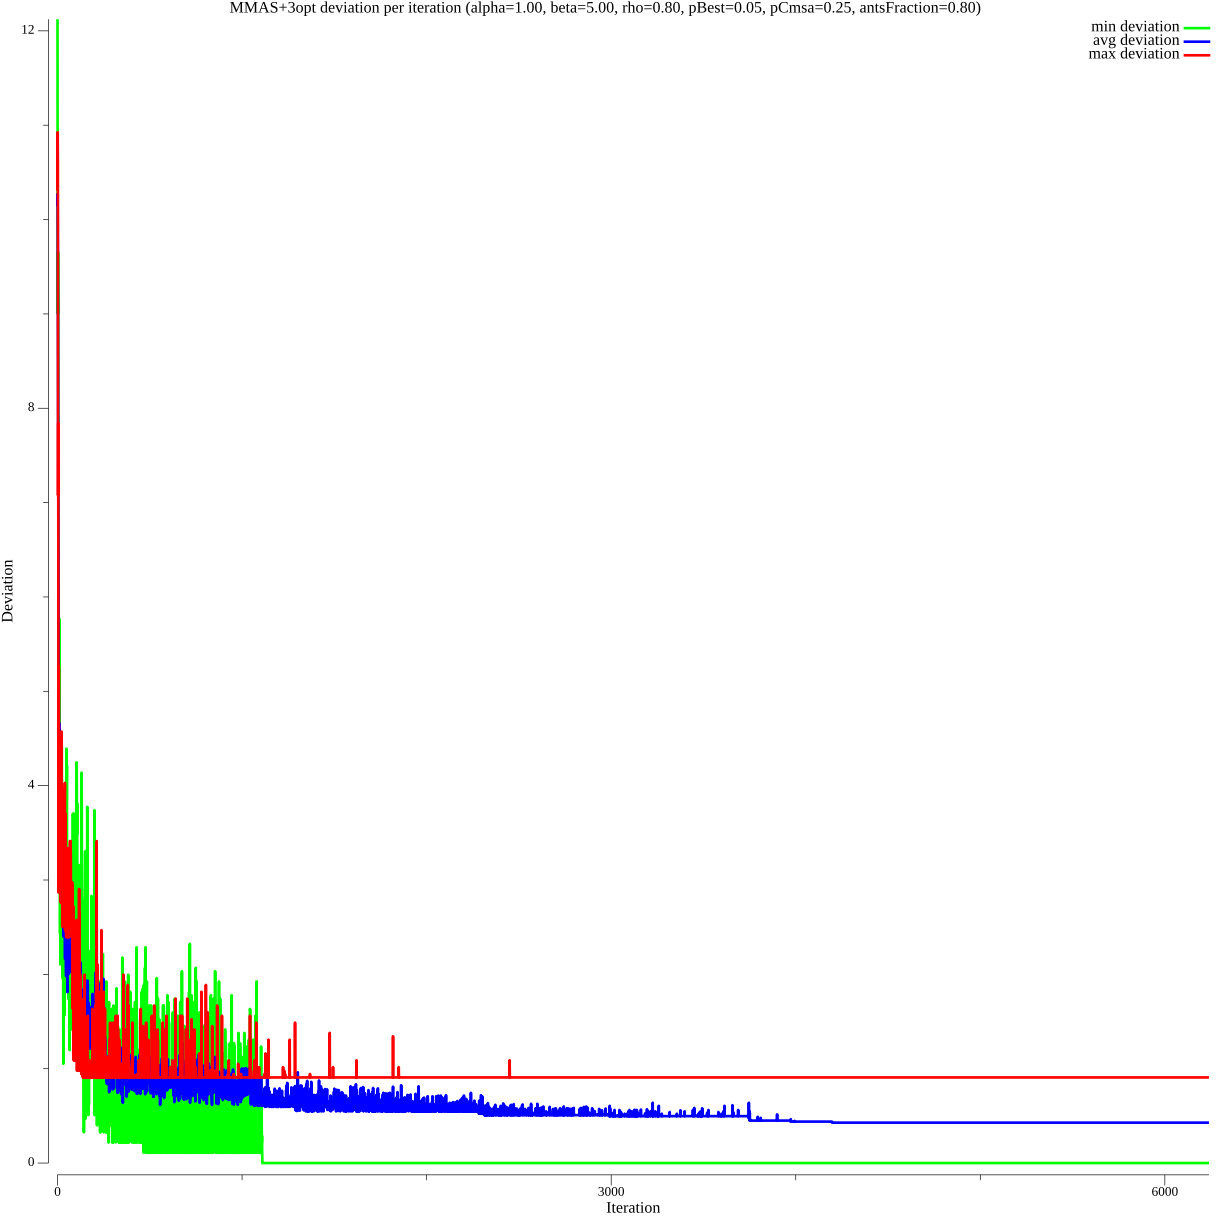
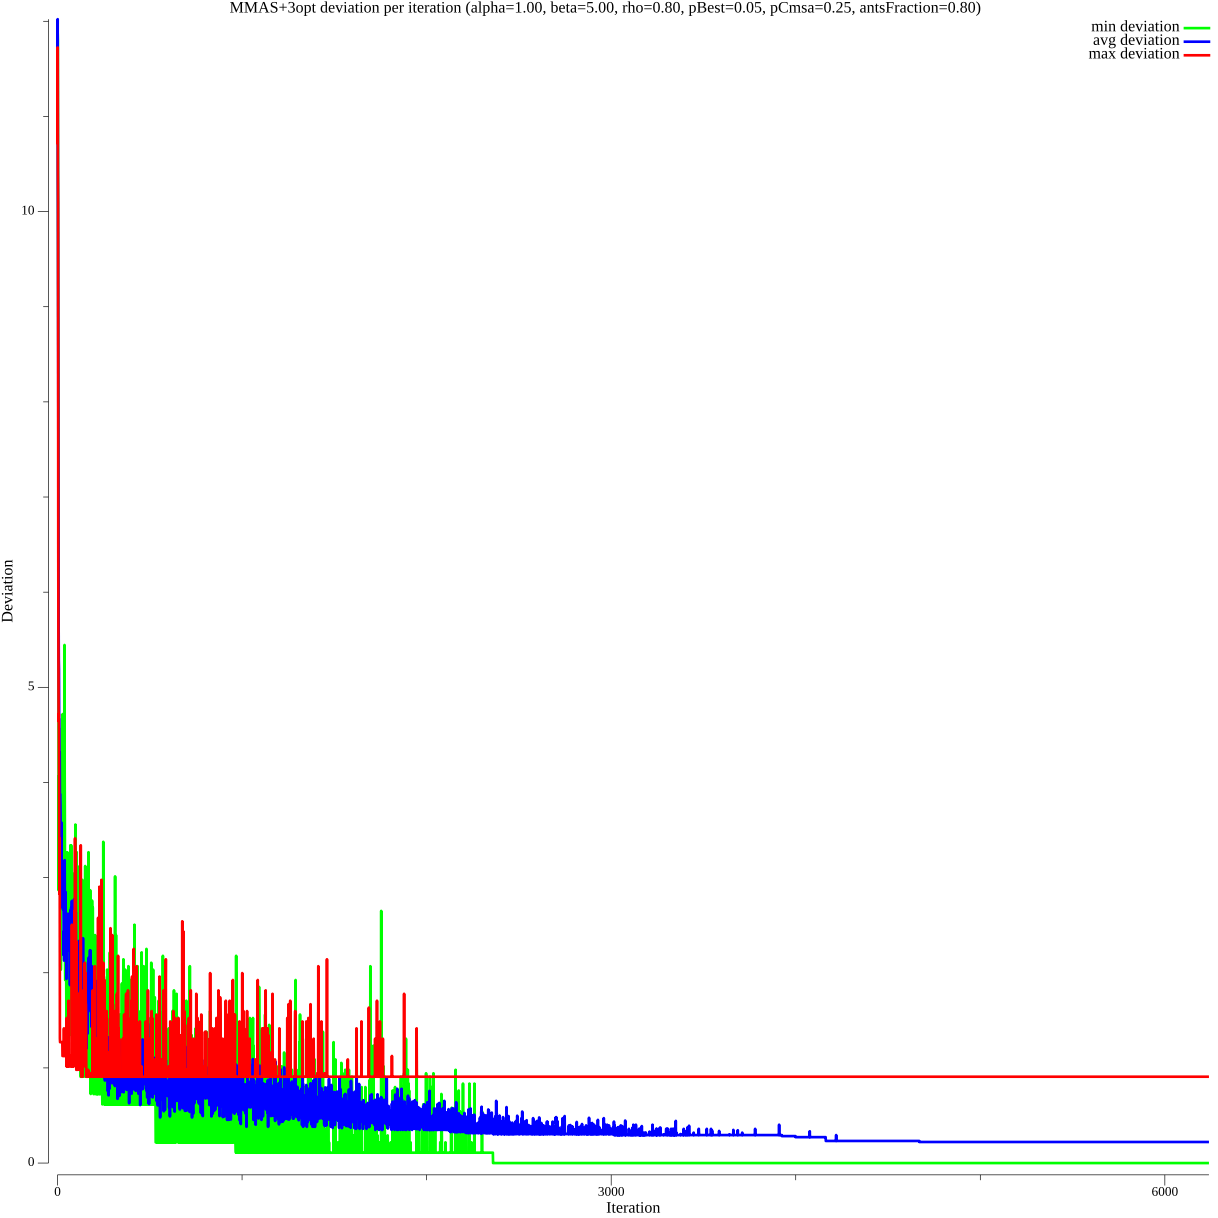
perf improvements and notes from consult, prep for more parameters etc.

Changed region(s): [[0.0312, 0.5304, 0.7488, 0.9672], [0.7488, 0.936, 0.9672, 0.9672], [0.0312, 0.0312, 0.0624, 0.0936]]

diff --git a/modules/algorithms/aco/aco.go b/modules/algorithms/aco/aco.go
@@ -89,6 +89,7 @@ func NewACO(useLocalSearch bool, alpha, beta, rho, pBest, pCmsa float64, ants, i
 		probabilities:             probabilities,
 		cmsaProbabilities:         cmsaProbabilities,
 		BestLength:                math.MaxFloat64,
+		BestTour:                  make([]int, dimension),
 		reducedThreeOpt:           reducedThreeOpt,
 		targetTourLength:          targetTourLength,
 		DeviationPerIteration:     make([]float64, iterations),
@@ -110,16 +111,18 @@ func (aco *ACO) Run() {
 		probabilities[i] = make([]float64, aco.dimension)
 	}
 
+	maxLocalSearchAntId := int(math.Floor(float64(aco.ants) * 0.5))
+
 	for aco.currentIteration = 0; aco.currentIteration < aco.iterations; aco.currentIteration++ {
 
 		iterationBestLength := math.MaxFloat64
-		iterationBestTour := []int{}
+		iterationBestTour := make([]int, aco.dimension)
 
 		currentDeviation := 1.0
 		for i := 0; i < aco.ants; i++ {
 			aco.constructTour(tours[i], canVisitBits[i], probabilities[i])
 
-			if aco.useLocalSearch {
+			if aco.useLocalSearch && i <= maxLocalSearchAntId {
 				aco.reducedThreeOpt.Run(tours[i])
 			}
 
@@ -127,20 +130,20 @@ func (aco *ACO) Run() {
 
 			if length < iterationBestLength {
 				iterationBestLength = length
-				iterationBestTour = append([]int(nil), tours[i]...)
+				copy(iterationBestTour, tours[i])
+
+				if iterationBestLength < aco.BestLength {
+					aco.BestLength = iterationBestLength
+					copy(aco.BestTour, iterationBestTour)
+					aco.BestAtIteration = aco.currentIteration
+				}
 
 				currentDeviation = 100 * (iterationBestLength - aco.targetTourLength) / aco.targetTourLength
 				aco.DeviationPerIteration[aco.currentIteration] = currentDeviation
-			}
 
-			if length < aco.BestLength {
-				aco.BestLength = length
-				aco.BestTour = append([]int(nil), tours[i]...)
-				aco.BestAtIteration = aco.currentIteration
-			}
-
-			if currentDeviation == 0.0 {
-				return
+				if currentDeviation == 0.0 {
+					return
+				}
 			}
 		}
 
@@ -184,39 +187,46 @@ func (aco *ACO) selectNextCity(current int, canVisitBits []float64, probabilitie
 	}
 
 	total := 0.0
-	cumulativeProbability := 0.0
-	nextCity := -1
-	for _, i := range aco.neighborsLists[current] {
-		probabilities[i] = canVisitBits[i] * probabilitiesToUse[i]
+	neighbors := aco.neighborsLists[current]
+	for _, i := range neighbors {
+		prob := canVisitBits[i] * probabilitiesToUse[i]
+		probabilities[i] = prob
 
-		total += probabilities[i]
+		total += prob
 	}
 
 	threshold := q * total
+	cumulativeProbability := 0.0
+	nextCity := -1
 
 	// Check if total is zero (no valid neighbors left), then fallback to all remaining nodes
 	if total != 0.0 {
-		for _, i := range aco.neighborsLists[current] {
-			cumulativeProbability += probabilities[i]
-			if threshold < cumulativeProbability && nextCity == -1 {
-				nextCity = i
+		for _, i := range neighbors {
+			if nextCity == -1 && probabilities[i] > 0.0 {
+				cumulativeProbability += probabilities[i]
+				if threshold < cumulativeProbability {
+					nextCity = i
+				}
 			}
 
 			probabilities[i] = 0.0
 		}
 	} else {
-		for i := 0; i < aco.dimension; i++ {
-			probabilities[i] = canVisitBits[i] * probabilitiesToUse[i]
+		for i, probability := range probabilitiesToUse {
+			prob := canVisitBits[i] * probability
+			probabilities[i] = prob
 
-			total += probabilities[i]
+			total += prob
 		}
 
 		threshold = q * total
 
-		for i := 0; i < aco.dimension; i++ {
-			cumulativeProbability += probabilities[i]
-			if threshold < cumulativeProbability && nextCity == -1 {
-				nextCity = i
+		for i, probability := range probabilities {
+			if nextCity == -1 && probability > 0.0 {
+				cumulativeProbability += probability
+				if threshold < cumulativeProbability {
+					nextCity = i
+				}
 			}
 
 			probabilities[i] = 0.0

diff --git a/main.go b/main.go
@@ -615,7 +615,7 @@ func setDimensionDependantParameters(dimension int, parameters *ExperimentParame
 func generateParameters() []ExperimentParameters {
 	parameters := make([]ExperimentParameters, 0)
 
-	for _, useLocalSearch := range []bool{false} {
+	for _, useLocalSearch := range []bool{true} {
 		for _, alpha := range utilities.GenerateRange(1.0, 1.0, 0.25) {
 			for _, beta := range utilities.GenerateRange(5.0, 5.0, 1.0) {
 				for _, rho := range utilities.GenerateRange(0.8, 0.8, 0.1) {

diff --git a/README.md b/README.md
@@ -87,21 +87,21 @@
 
 Co dalej?
 
-Zmniejszyć ilość mrówek?
- - ustalić ilość mrówek, raczej jako procent węzłów, sprawdzić zmienną ilość mrówek i zapisać numer najlepszej mrówki: wyszło, że 80% daje lepsze wyniki niż 100%. Po co numer najlepszej mrówki? To działa dlatego, że feromony są częściej aktualizowane
+Wskaźnik pokazujący czy heurystykę warto zastosować!
 
 Ile iteracji robi 3-opt?
  - dodać to wyników, zdaje się że CMSA skłania do globalnego optimum, ale po drodze do niego ścieżki są suboptymalne
- - może w postaci wykresu? czy może to przesada?
+ - może w postaci wykresu? czy może to przesada? Na później jeśli będzie czas/miejsce w pracy!
+
+Sprawdzić zachłanny zamiast drugiej ruletki i 3-opt dla najlepszej trasy znalezionej przez mrówki.
 
 FDC:
  - policzyć!
 
-0. Ile iteracji robi 3-opt
-1. Porównanie map termicznych
-2. Wykres tego jak zmienia się podobieństwo do CMSA?
+0. Ile iteracji robi 3-opt? - póki co w postaci tabeli bez wykresu
+1. Porównanie map termicznych - zrobić automatycznie
+2. Wykres tego jak zmienia się podobieństwo do CMSA? - zobaczymy jak z czasem, jeśli w weekend się nie uda to nie
 3. Zapisywać to jakie jest odchylenie w każdej iteracji - żeby tworzenie wykresów zbieżności tyle czasu nie zajmowało!
-4. Lepiej ustalać to które rozwiązanie jest optymalne!
 
 Rozdziały:
 

diff --git a/results/best_3opt_parameters_report.md b/results/best_3opt_parameters_report.md
@@ -6,11 +6,11 @@ Found **5** best unique parameter combinations.
 
 | Alpha | Beta | Rho | pBest | pCmsa | AntsPercentage |
 |-------|------|-----|-------|-------|----------------|
+| 1.00 | 5.00 | 0.80 | 0.05 | 0.00 | 0.80 |
+| 1.00 | 5.00 | 0.80 | 0.05 | 0.50 | 0.80 |
 | 1.00 | 5.00 | 0.80 | 0.05 | 0.75 | 0.80 |
 | 1.00 | 5.00 | 0.80 | 0.05 | 0.25 | 0.80 |
 | 1.00 | 5.00 | 0.80 | 0.05 | 1.00 | 0.80 |
-| 1.00 | 5.00 | 0.80 | 0.05 | 0.00 | 0.80 |
-| 1.00 | 5.00 | 0.80 | 0.05 | 0.50 | 0.80 |
 
 ## Parameter Values Occurrences
 

diff --git a/results/best_parameters_report.md b/results/best_parameters_report.md
@@ -6,11 +6,11 @@ Found **5** best unique parameter combinations.
 
 | Alpha | Beta | Rho | pBest | pCmsa | AntsPercentage |
 |-------|------|-----|-------|-------|----------------|
-| 1.00 | 5.00 | 0.80 | 0.05 | 0.50 | 0.80 |
-| 1.00 | 5.00 | 0.80 | 0.05 | 0.25 | 0.80 |
 | 1.00 | 5.00 | 0.80 | 0.05 | 0.00 | 0.80 |
 | 1.00 | 5.00 | 0.80 | 0.05 | 1.00 | 0.80 |
 | 1.00 | 5.00 | 0.80 | 0.05 | 0.75 | 0.80 |
+| 1.00 | 5.00 | 0.80 | 0.05 | 0.50 | 0.80 |
+| 1.00 | 5.00 | 0.80 | 0.05 | 0.25 | 0.80 |
 
 ## Parameter Values Occurrences
 

diff --git a/results/best_overall_parameters_report.md b/results/best_overall_parameters_report.md
@@ -6,11 +6,11 @@ Found **5** best unique parameter combinations.
 
 | Alpha | Beta | Rho | pBest | pCmsa | AntsPercentage |
 |-------|------|-----|-------|-------|----------------|
-| 1.00 | 5.00 | 0.80 | 0.05 | 0.50 | 0.80 |
 | 1.00 | 5.00 | 0.80 | 0.05 | 0.75 | 0.80 |
 | 1.00 | 5.00 | 0.80 | 0.05 | 1.00 | 0.80 |
 | 1.00 | 5.00 | 0.80 | 0.05 | 0.00 | 0.80 |
 | 1.00 | 5.00 | 0.80 | 0.05 | 0.25 | 0.80 |
+| 1.00 | 5.00 | 0.80 | 0.05 | 0.50 | 0.80 |
 
 ## Parameter Values Occurrences
 
